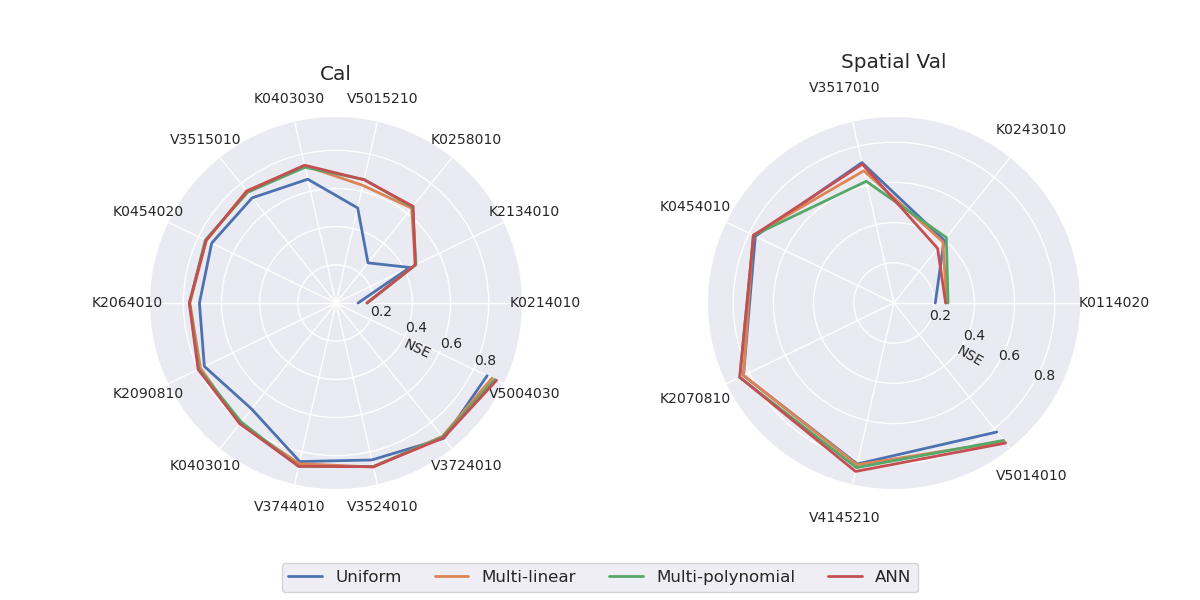
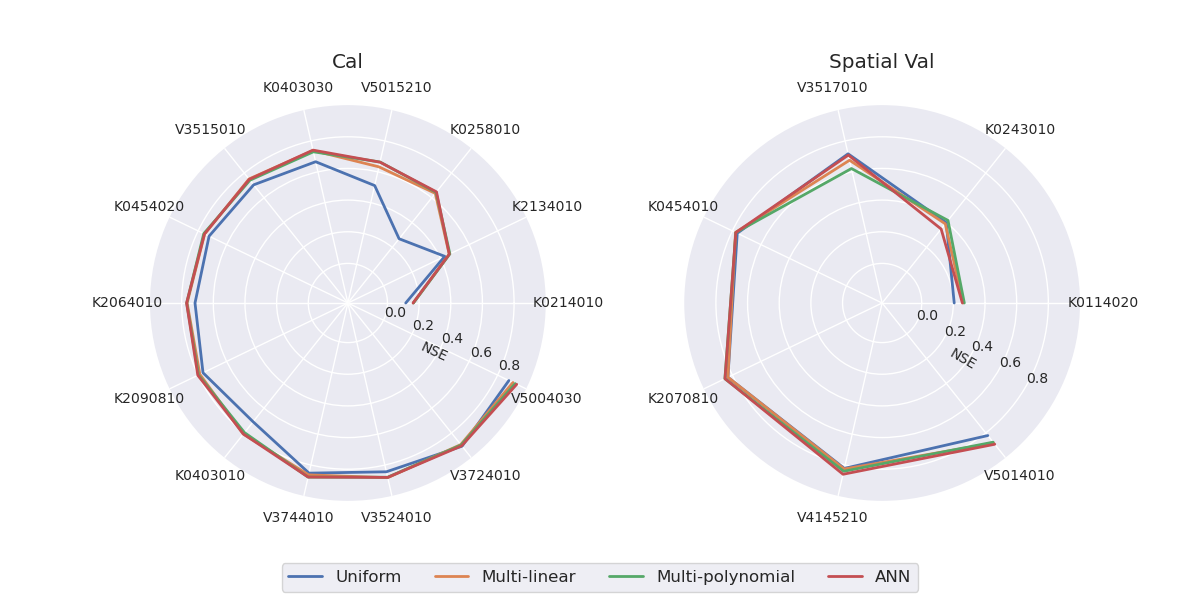
FIX: fix radial scale

diff --git a/run_result-analysis.py b/run_result-analysis.py
@@ -145,12 +145,15 @@ def radialplot(args, fobj="NSE", figname="radialplots", figsize=(12, 6)):
     ax1.set_xticks(rad)
     ax1.set_xticklabels(np.array(code_cal)[indsort_cal])
 
-    ax1.set_rticks([0.2, 0.4, 0.6, 0.8])  # Less radial ticks
+    ax1.set_rticks([0, 0.2, 0.4, 0.6, 0.8])  # Less radial ticks
     ax1.set_rlabel_position(-25)  # Move radial labels away from plotted line
     ax1.tick_params(axis="both", labelsize=10)  # Custom font size and scale values
     ax1.spines["polar"].set_visible(
         False
     )  # Hide the border of the circle behind the text
+
+    ax1.set_rmin(-0.25)
+    ax1.set_rmax(1)
 
     ax1.set_title("Cal", va="bottom")
 
@@ -158,7 +161,7 @@ def radialplot(args, fobj="NSE", figname="radialplots", figsize=(12, 6)):
     label_position = ax1.get_rlabel_position()
     ax1.text(
         np.radians(label_position - 5),
-        ax1.get_rmax() / 2,
+        (ax1.get_rmax() + ax1.get_rmin()) / 2,
         "NSE",
         rotation=label_position,
         ha="center",
@@ -185,14 +188,15 @@ def radialplot(args, fobj="NSE", figname="radialplots", figsize=(12, 6)):
     ax2.set_xticks(rad)
     ax2.set_xticklabels(np.array(code_sval)[indsort_sval])
 
-    ax2.set_rticks([0.2, 0.4, 0.6, 0.8])  # Less radial ticks
+    ax2.set_rticks([0, 0.2, 0.4, 0.6, 0.8])  # Less radial ticks
     ax2.set_rlabel_position(-30)  # Move radial labels away from plotted line
-    ax2.tick_params(
-        axis="both", labelsize=10, pad=12
-    )  # Custom font size and scale values
+    ax2.tick_params(axis="both", labelsize=10)  # Custom font size and scale values
     ax2.spines["polar"].set_visible(
         False
     )  # Hide the border of the circle behind the text
+
+    ax2.set_rmin(-0.25)
+    ax2.set_rmax(1)
 
     ax2.set_title("Spatial Val", va="bottom")
 
@@ -200,7 +204,7 @@ def radialplot(args, fobj="NSE", figname="radialplots", figsize=(12, 6)):
     label_position = ax2.get_rlabel_position()
     ax2.text(
         np.radians(label_position - 5),
-        ax2.get_rmax() / 2,
+        (ax2.get_rmax() + ax2.get_rmin()) / 2,
         "NSE",
         rotation=label_position,
         ha="center",
@@ -209,14 +213,16 @@ def radialplot(args, fobj="NSE", figname="radialplots", figsize=(12, 6)):
     )
 
     # adjust the subplots layout
-    fig.subplots_adjust(wspace=0.5)
+    fig.subplots_adjust(wspace=0.35)
 
     fig.legend(loc="lower center", ncols=4, fontsize=12)
 
     plt.savefig(os.path.join(args.output, figname + ".png"))
 
 
-def boxplot_and_scatterplot(args, fobj="NSE", figname="box-scatterplots", figsize=(15, 8)):
+def boxplot_and_scatterplot(
+    args, fobj="NSE", figname="box-scatterplots", figsize=(15, 8)
+):
     print("</> Plotting boxplots and scatterplots...")
 
     cost = []
